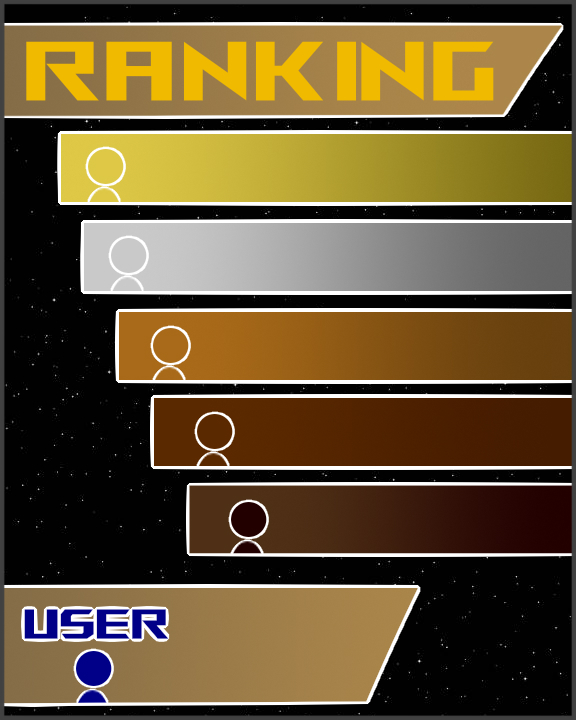
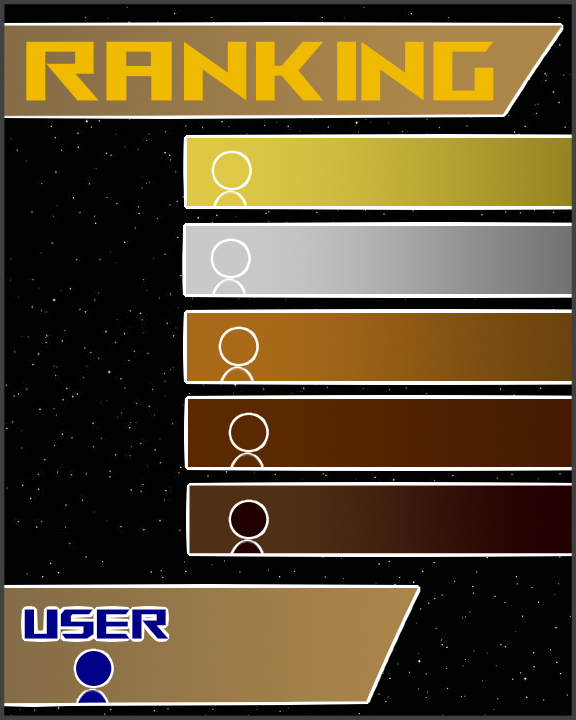
FinishRanking
- Ranking is Complete

Changed region(s): [[0.0938, 0.1833, 1.0, 0.6722], [0.75, 0.6417, 1.0, 0.6722]]

diff --git a/src/gameState/Ranking.java b/src/gameState/Ranking.java
@@ -1,17 +1,22 @@
 package gameState;
 
+import json.JSONUserManager;
 import main.Game;
 import ui.ClassButton;
+import users.User;
 import utilz.LoadSave;
 
 import java.awt.*;
+import java.awt.List;
 import java.awt.event.KeyEvent;
 import java.awt.event.MouseEvent;
 import java.awt.image.BufferedImage;
+import java.util.*;
 
 public class Ranking extends State implements Statemethods{
     // ====================> ATRIBUTOS <====================
     private ClassButton back;
+    private ArrayList<User> usuarios;
 
     // ====================> CONSTRUCTOR <====================
     public Ranking(Game game) {
@@ -22,8 +27,20 @@ public class Ranking extends State implements Statemethods{
     // ====================> GET | SET <====================
 
     // ====================> METODOS <====================
+    private void verifyRanking() {
+        boolean flag = false;
+        if(!flag){
+            JSONUserManager userManager = new JSONUserManager();
+            usuarios = new ArrayList<>(userManager.fileToUsers()); // Pasa el archivo a una lista
+            usuarios.sort((u1, u2) -> Integer.compare(u2.getBestScore(), u1.getBestScore()));
+            flag = true;
+        }
+    }
+
+
     @Override
     public void update() {
+        verifyRanking();
         back.update();
     }
 
@@ -34,6 +51,22 @@ public class Ranking extends State implements Statemethods{
         g.drawImage(pincel, 0, 0, Game.GAME_WIDTH, Game.GAME_HEIGHT, null);
 
         // Dibuja los nombres de los Ranking
+        g.setFont(new Font("Console", Font.BOLD, 20));
+        int y = 180;
+        for (int i = 0; i < usuarios.size() && i < 5; i++) {
+            User u = usuarios.get(i);
+            g.setColor(Color.WHITE);
+            g.drawString(u.getName(), 230, y);
+            g.setColor(Color.YELLOW);
+            g.drawString(String.valueOf(u.getBestScore()), 380, y);
+            y += 88;
+        }
+
+        // Dibuja la informacion del jugador
+        g.setColor(Color.WHITE);
+        g.drawString(game.getUserInGame().getName(), 200, 630);
+        g.setColor(Color.YELLOW);
+        g.drawString(String.valueOf(game.getUserInGame().getBestScore()), 200, 660);
 
         back.draw(g);
     }

diff --git a/src/json/JSONUserManager.java b/src/json/JSONUserManager.java
@@ -1,14 +1,10 @@
 package json;
 
-import main.Game;
 import org.json.JSONArray;
 import org.json.JSONException;
 import org.json.JSONObject;
-import org.json.JSONTokener;
 import users.User;
 
-import javax.print.attribute.standard.Fidelity;
-import java.io.File;
 import java.util.*;
 
 /**
@@ -72,7 +68,6 @@ public final class JSONUserManager {
 
         try {
             JSONArray usersArray = ReadWriteOperations.read(nomJSON); // Obtener JSONArray con contenido del archivo
-
             // Convertir cada elemento en un JSONObject
             for(int i = 0; i< usersArray.length(); i++){
                 JSONObject userJson = usersArray.getJSONObject(i);
